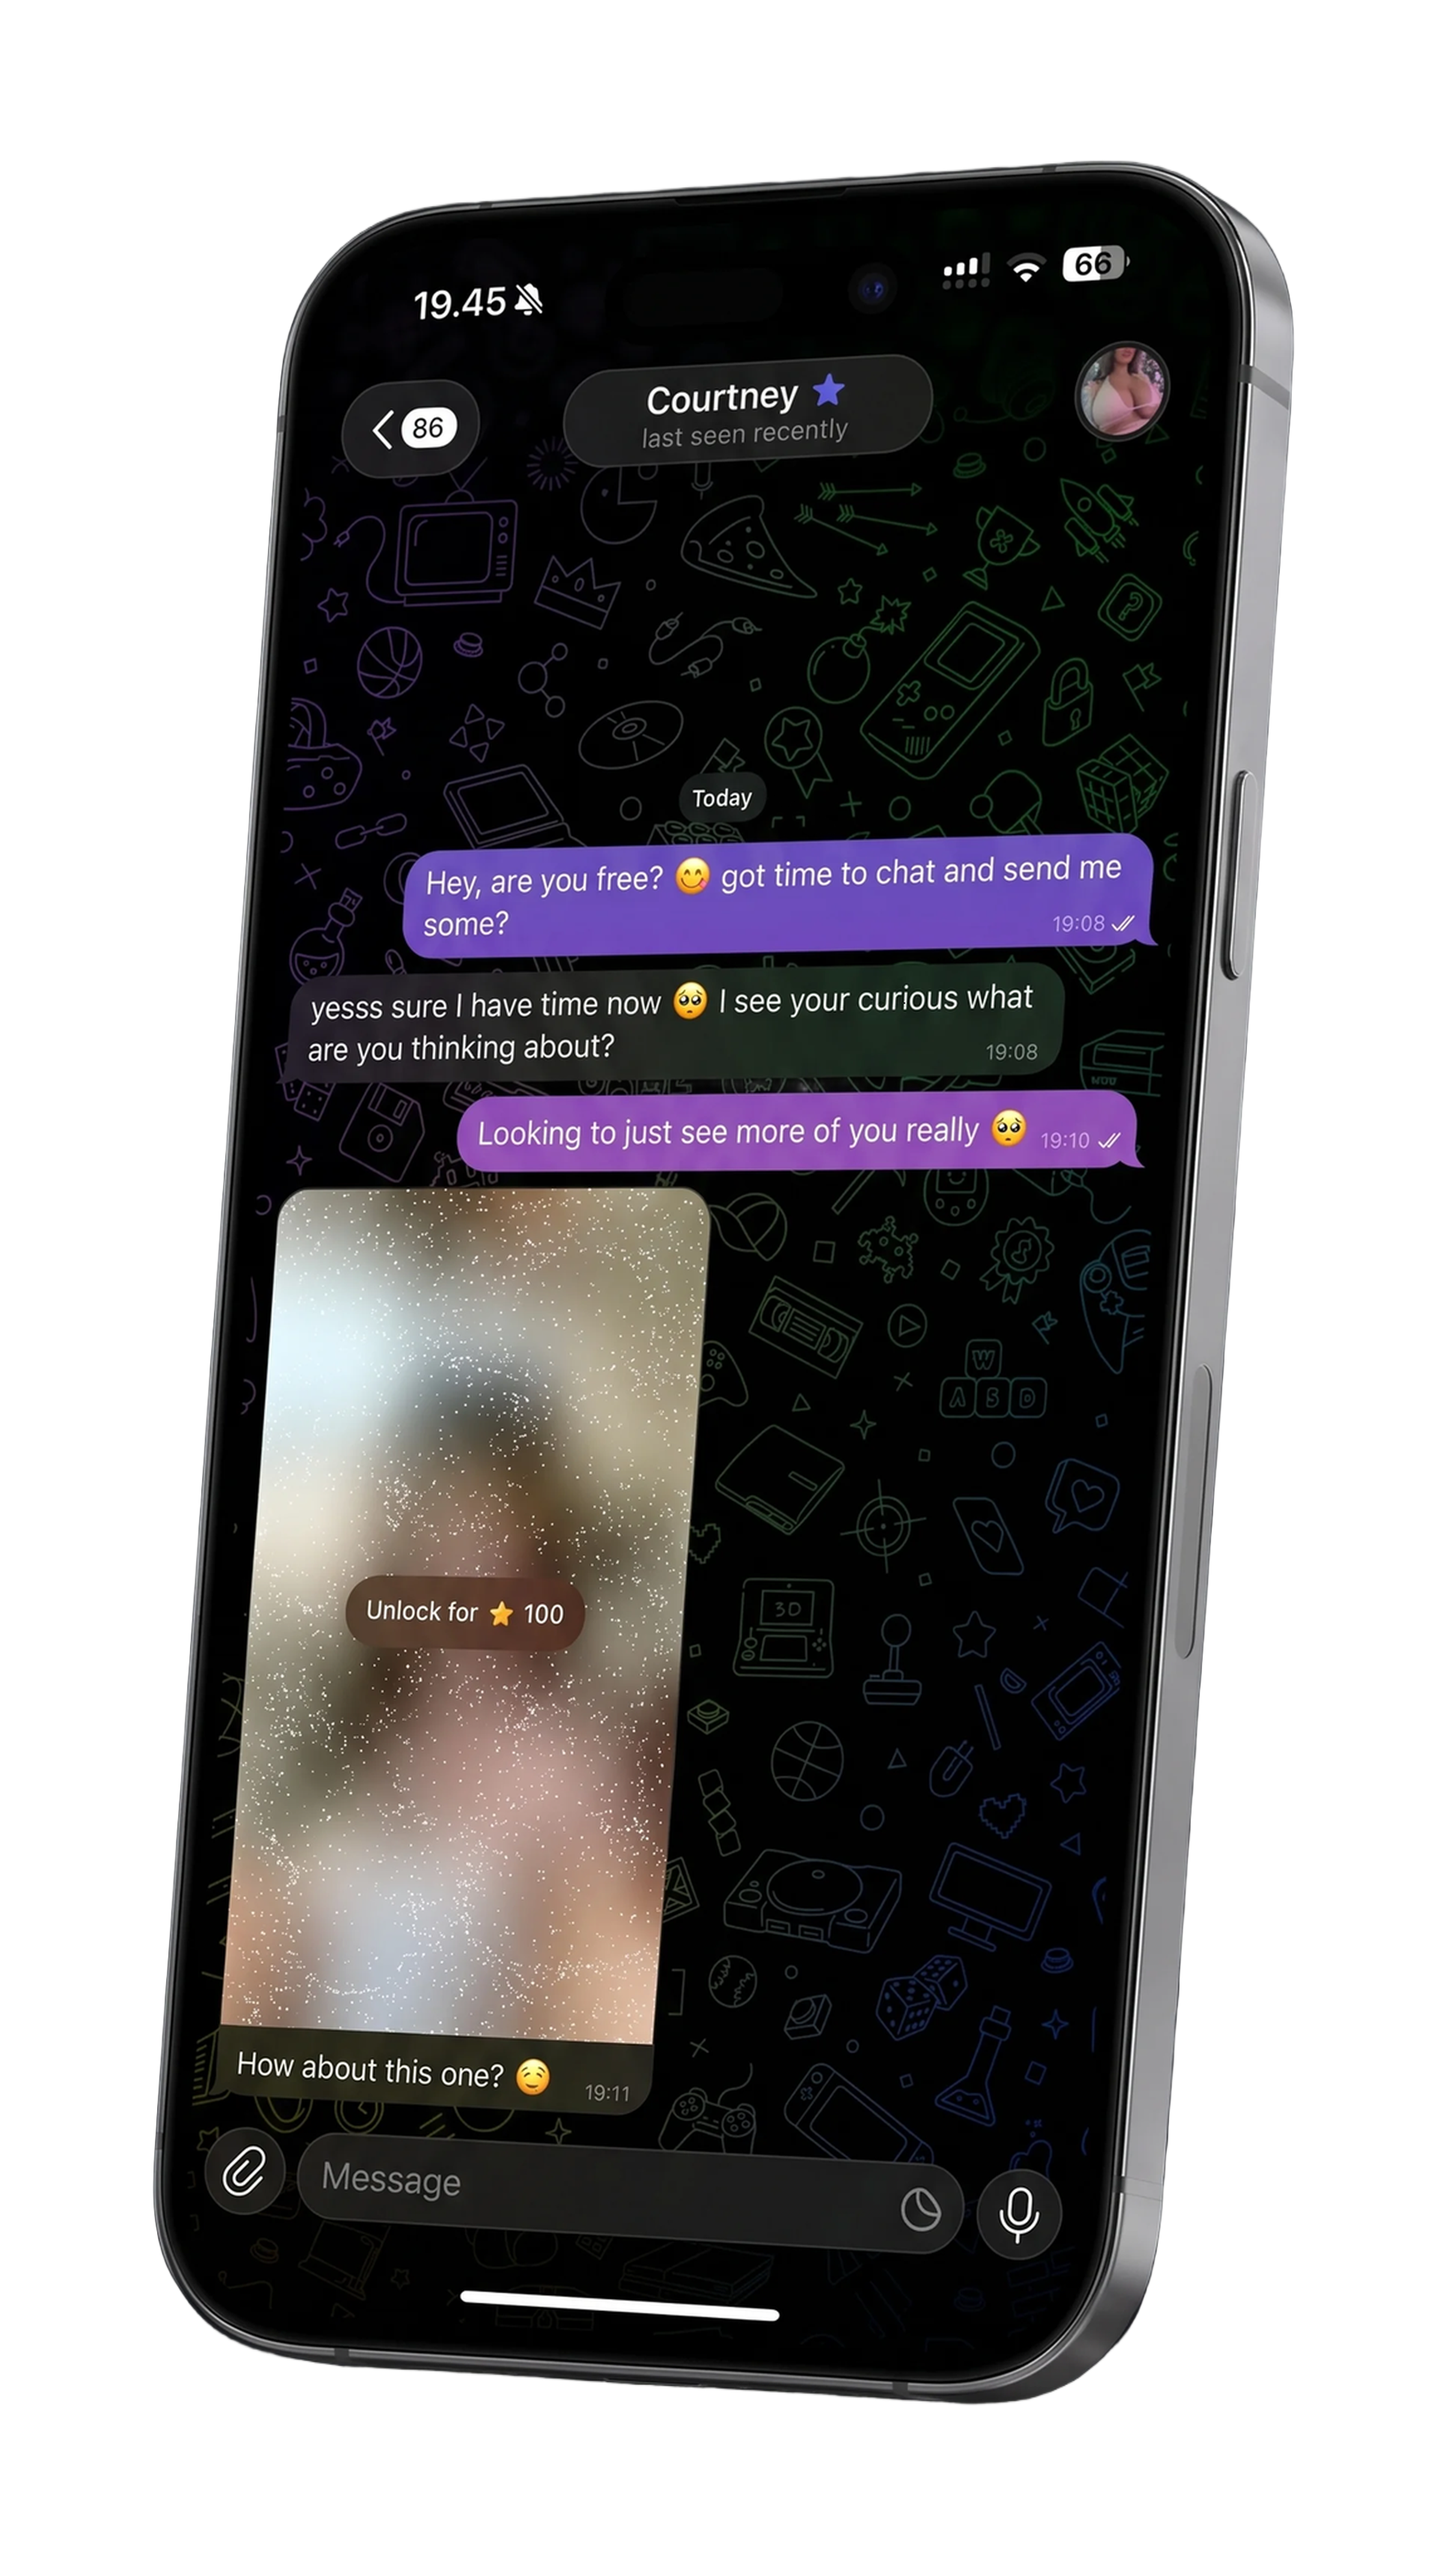
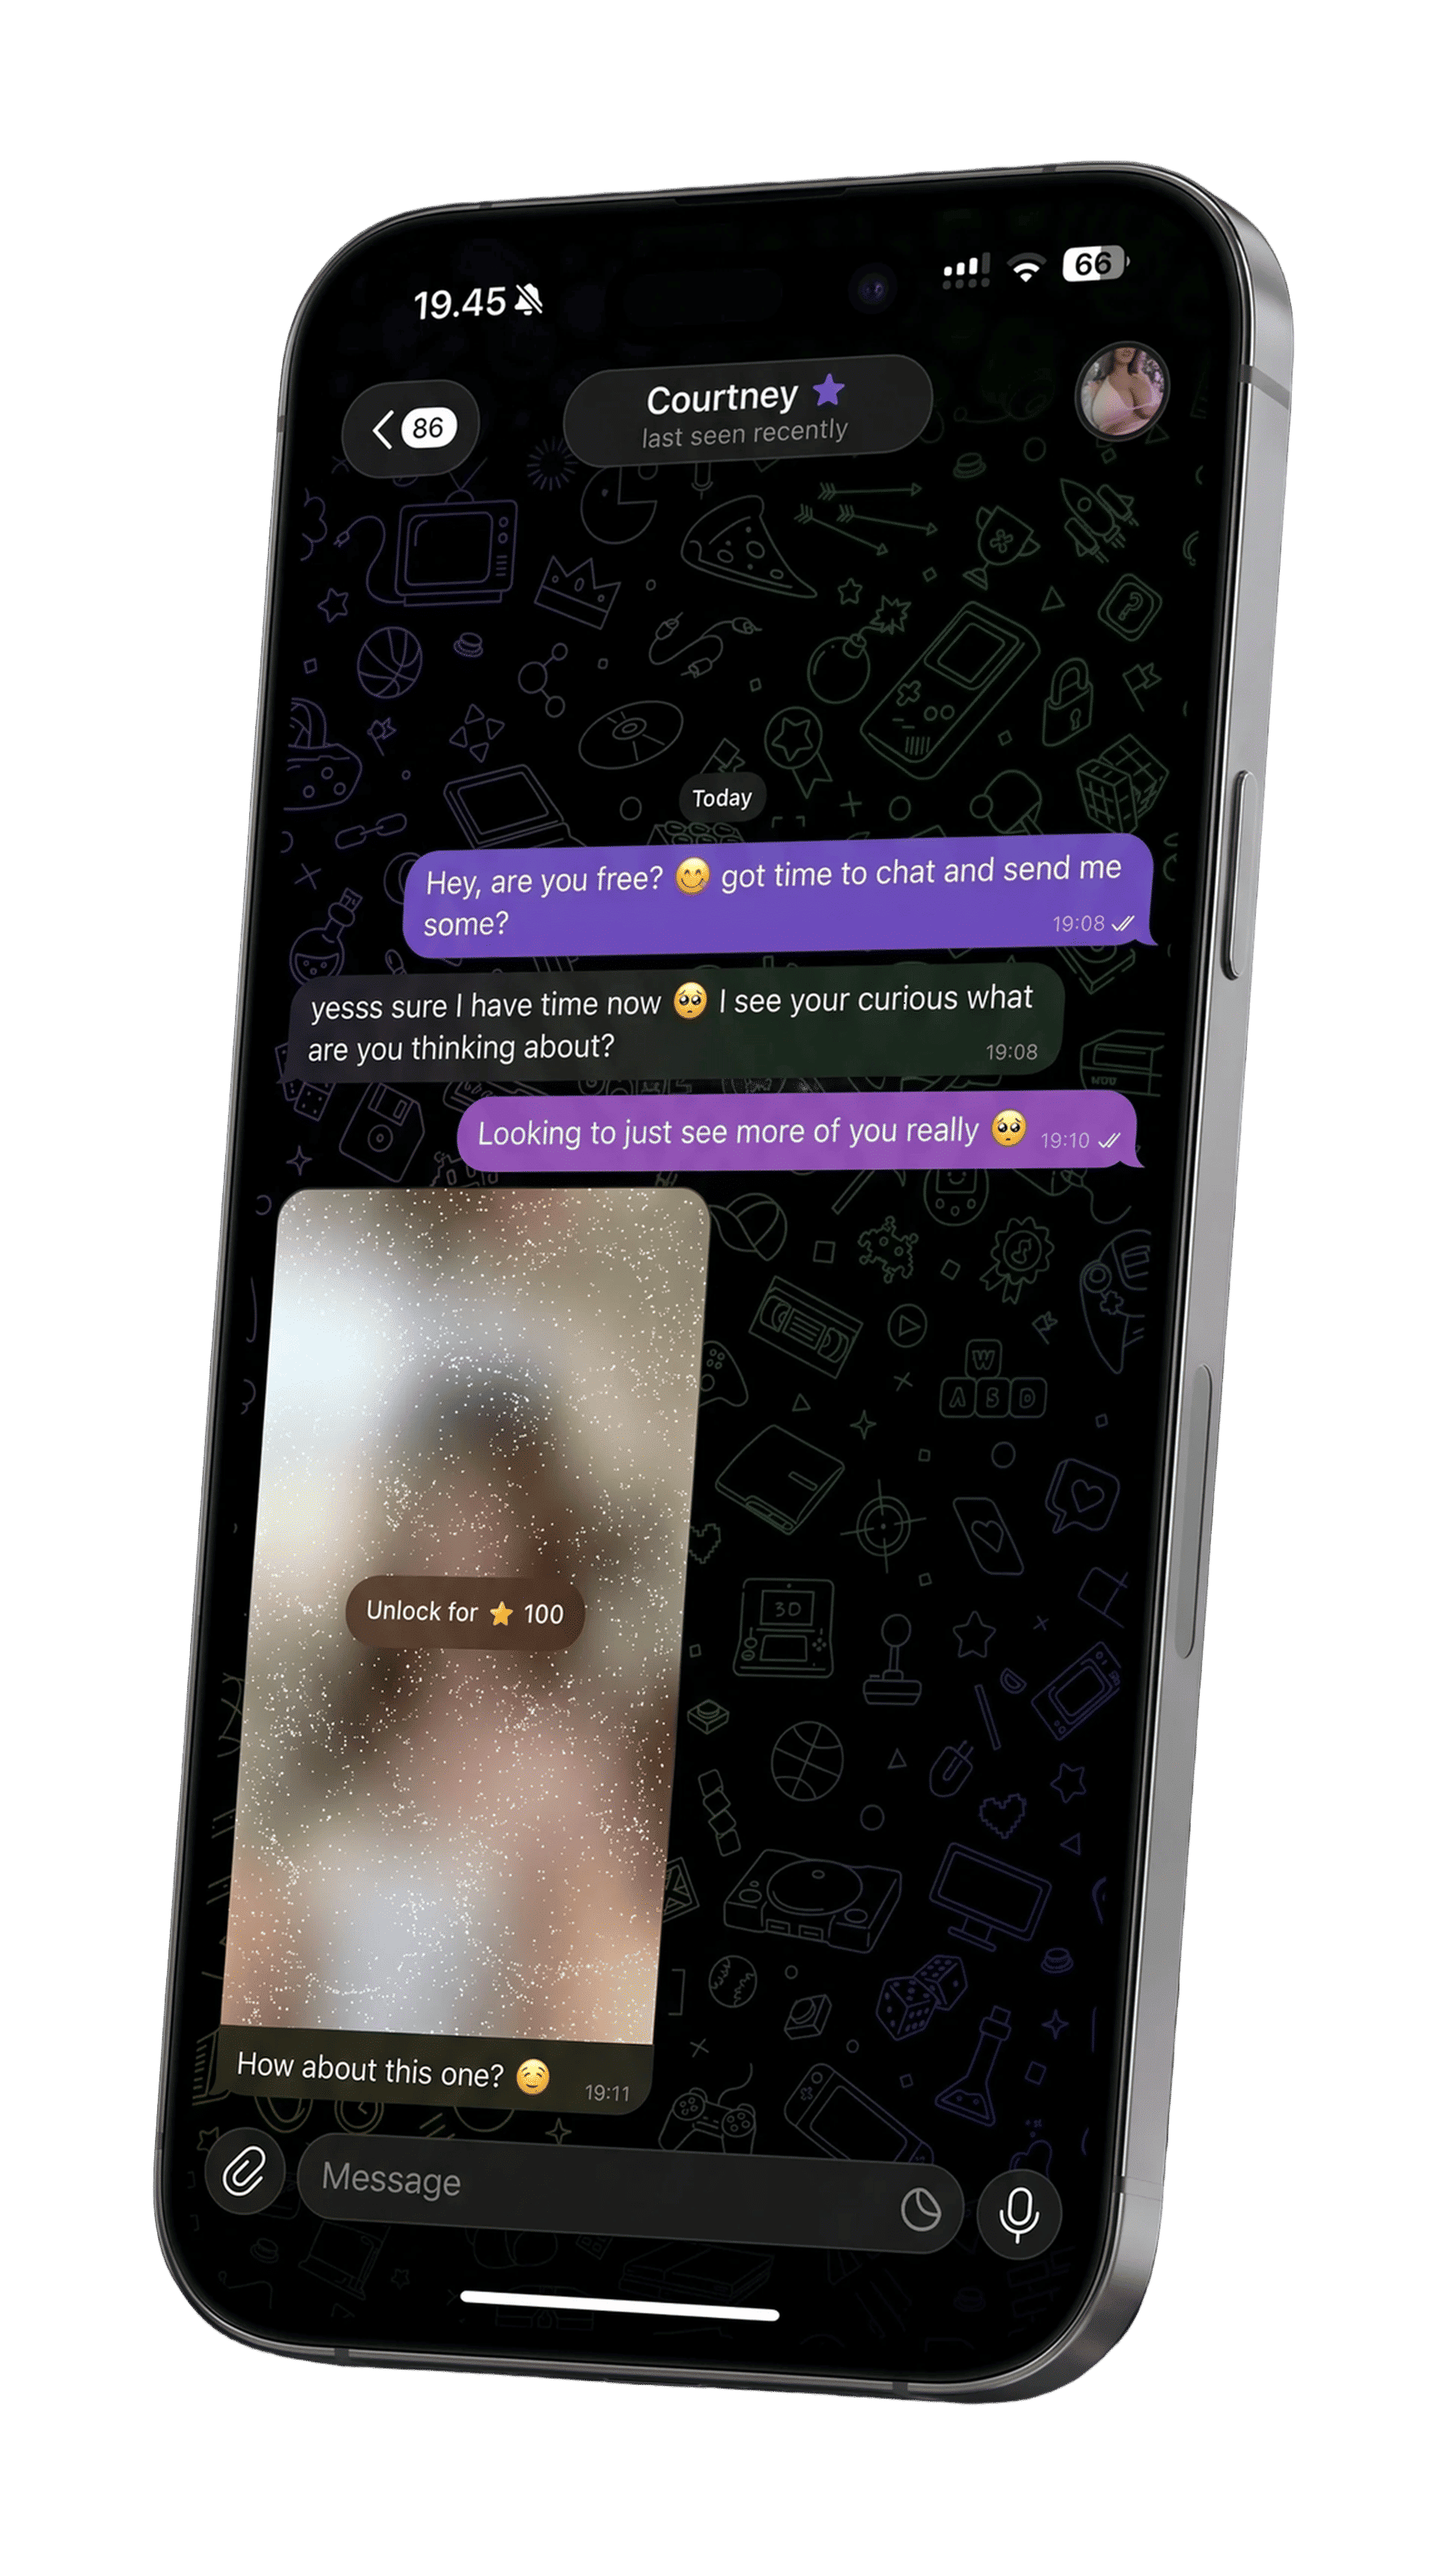
batch 94: new hero image + 30d cache on telegram-media thumbs + AR renders as virtual PPV bubble
- Landing hero: swap public/hero_ppvs.png with the new asset (hero_ppvs1.png
  from Telegram Downloads). Same filename so no template changes.

- /api/telegram/media/[modelId]: thumbs now ship "Cache-Control: private,
  max-age=2592000, immutable" (30 days). Telegram media is immutable per
  (peerId, messageId), so the browser can serve every re-render of the
  chat from disk without a network round-trip. Full-quality bytes keep
  the 5-minute TTL — those are the ones that occasionally re-transcode.

- auto-reply: every AR (free or Stars-priced) now inserts a ppv_sends row
  + ppv_send_items before firing, using generatePpvCode() as the invoice
  payload for native paid media. The chat-events stream picks up the row
  and the chatter workspace renders it as a virtual PPV bubble — matching
  the design ask that AR should look like a PPV in the chatter view even
  when it's free. Existing purchased_paid_media webhook fulfillment kicks
  in automatically for Stars-priced ARs (marks paid, bumps fan.total_spent).
  chatter_id=null so sales alerts and admin views correctly attribute the
  sale to the model rather than a nonexistent chatter.

diff --git a/src/lib/auto-reply.ts b/src/lib/auto-reply.ts
@@ -3,6 +3,8 @@ import { CustomFile } from "telegram/client/uploads";
 import type { TelegramClient } from "telegram";
 import { createAdminSupabaseClient } from "@/lib/supabase-server";
 import { ppvMediaPathFromUrl } from "@/lib/ppv-storage";
+import { generatePpvCode } from "@/lib/ppv-code";
+import { starsToUsd } from "@/lib/stars";
 
 /**
  * Auto-reply on first-fan-message.
@@ -136,6 +138,71 @@ async function loadPpvMedia(
     .filter((x) => !!x.mediaUrl);
 }
 
+/**
+ * Materialize a ppv_sends row + junction rows for an auto-reply so the
+ * chatter workspace picks it up as a virtual PPV bubble (same code path
+ * as chatter-composed sends). chatter_id is left null — the AR was fired
+ * by the model's session, not a human chatter. total_price is 0 for free
+ * ARs; for stars > 0 ARs it's the USD equivalent, so the purchased_paid_media
+ * webhook can fulfill it (mark paid, bump fan.total_spent) using our code
+ * as the payload.
+ */
+async function insertArPpvSend(
+  modelId: string,
+  peerId: string,
+  ppvIds: string[],
+  caption: string,
+  totalPriceUsd: number,
+  isPaidMedia: boolean,
+): Promise<{ code: string; sendId: string } | null> {
+  const admin = createAdminSupabaseClient();
+  let code = "";
+  let sendId = "";
+  for (let attempt = 0; attempt < 5; attempt++) {
+    code = generatePpvCode();
+    const nowIso = new Date().toISOString();
+    const { data, error } = await admin
+      .from("ppv_sends")
+      .insert({
+        code,
+        model_id: modelId,
+        chatter_id: null,
+        peer_id: peerId,
+        peer_access_hash: null,
+        peer_username: null,
+        caption: caption || null,
+        total_price: totalPriceUsd,
+        // Free AR is delivered on send; native paid-media AR flips to
+        // 'delivered' only when purchased_paid_media webhook lands.
+        status: isPaidMedia ? "sent" : "delivered",
+        delivered_at: isPaidMedia ? null : nowIso,
+      })
+      .select("id")
+      .single();
+    if (!error && data) {
+      sendId = (data as { id: string }).id;
+      break;
+    }
+    if (error && (error as { code?: string }).code !== "23505") {
+      console.error("[auto-reply] ppv_sends insert failed:", error.message);
+      return null;
+    }
+  }
+  if (!sendId) return null;
+  const itemRows = ppvIds.map((id, idx) => ({
+    send_id: sendId,
+    ppv_id: id,
+    ordinal: idx,
+  }));
+  const { error: linkErr } = await admin.from("ppv_send_items").insert(itemRows);
+  if (linkErr) {
+    console.error("[auto-reply] ppv_send_items insert failed:", linkErr.message);
+    await admin.from("ppv_sends").delete().eq("id", sendId);
+    return null;
+  }
+  return { code, sendId };
+}
+
 async function sendAutoReply(
   client: TelegramClient,
   modelId: string,
@@ -162,9 +229,25 @@ async function sendAutoReply(
     return;
   }
 
+  // Materialize a ppv_sends row (+ ppv_send_items) up-front so the chatter
+  // workspace renders this auto-reply as a virtual PPV bubble regardless of
+  // whether it's free or Stars-priced. Without this row, native paid-media
+  // messages are hidden by the chatter UI (see isPaidMedia in
+  // /api/telegram/messages), and free-album AR shows as a plain photo.
+  const totalPriceUsd = stars > 0 ? starsToUsd(stars) : 0;
+  const send = await insertArPpvSend(
+    modelId,
+    peerId,
+    media.map((m) => m.id),
+    text,
+    totalPriceUsd,
+    stars > 0,
+  );
+  const arCode = send?.code ?? null;
+
   // Stars > 0 → native Paid Media via @ppvstarbot (business connection).
-  // Same code path as /api/ppv/send paid — the fan sees the blur + "Unlock
-  // for ⭐ N" overlay and the chatter view renders it as a PPV bubble.
+  // The code doubles as the invoice payload so the purchased_paid_media
+  // webhook can find the row and fulfill it (mark paid, bump fan.total_spent).
   if (stars > 0) {
     const [{ findActiveBusinessConnection, sendPaidMediaAsBusiness }] = await Promise.all([
       import("@/lib/business-bot"),
@@ -197,11 +280,7 @@ async function sendAutoReply(
             connectionId: conn.connectionId,
             chatId: peerId,
             stars,
-            // Auto-replies have no ppv_sends row, so we don't have a code to
-            // pass back through the purchased_paid_media webhook. Use a
-            // stable synthetic payload so the webhook can tell "this was an
-            // auto-reply, no server-side fulfillment needed".
-            payload: `ar_${modelId.slice(0, 8)}_${Date.now().toString(36)}`,
+            payload: arCode ?? generatePpvCode(),
             caption: text,
             media: media.map((m) => ({
               kind: isVideo(m.mediaUrl) ? "video" : "photo",
@@ -215,6 +294,17 @@ async function sendAutoReply(
             e instanceof Error ? e.message : e,
           );
           // Fall through to free album so the fan at least gets something.
+          // The ppv_sends row already exists — flip it to 'failed' so the
+          // chatter view doesn't render a virtual PPV that never landed.
+          if (send) {
+            try {
+              const admin2 = createAdminSupabaseClient();
+              await admin2
+                .from("ppv_sends")
+                .update({ status: "failed", error: e instanceof Error ? e.message : "sendPaidMedia failed" })
+                .eq("id", send.sendId);
+            } catch { /* best-effort */ }
+          }
         }
       }
     }

diff --git a/src/app/api/telegram/media/[modelId]/route.ts b/src/app/api/telegram/media/[modelId]/route.ts
@@ -68,11 +68,12 @@ function respondWithMaybeRange(
   data: Buffer,
   mime: string,
   rangeHeader: string | null,
+  cacheSeconds: number,
 ): Response {
   const total = data.length;
   const baseHeaders: Record<string, string> = {
     "Content-Type": mime,
-    "Cache-Control": "private, max-age=300",
+    "Cache-Control": `private, max-age=${cacheSeconds}, immutable`,
     "Accept-Ranges": "bytes",
   };
 
@@ -171,10 +172,17 @@ export async function GET(
 
     const rangeHeader = req.headers.get("range");
 
+    // Telegram media is immutable per (peerId, messageId) — the same message
+    // never changes bytes — so thumbs are safe to cache aggressively in the
+    // browser (they're per-fan and per-message). Full-quality bytes cache
+    // shorter because users occasionally re-view large videos and we want
+    // any bucket policy tweaks to take effect on next open.
+    const cacheSeconds = quality === "thumb" ? 30 * 24 * 60 * 60 : 300;
+
     const k = cacheKey(modelId, peerId, messageId, quality);
     const hit = cache.get(k);
     if (hit && Date.now() - hit.ts < CACHE_TTL_MS) {
-      return respondWithMaybeRange(hit.data, hit.mime, rangeHeader);
+      return respondWithMaybeRange(hit.data, hit.mime, rangeHeader, cacheSeconds);
     }
 
     // Deferred Response: the streaming path resolves this as soon as the
@@ -235,7 +243,7 @@ export async function GET(
           }
           const mime = mimeFor(msg, true);
           cachePut(k, buf as Buffer, mime);
-          settle(respondWithMaybeRange(buf as Buffer, mime, rangeHeader));
+          settle(respondWithMaybeRange(buf as Buffer, mime, rangeHeader, cacheSeconds));
           return;
         }
 
@@ -302,7 +310,7 @@ export async function GET(
           const headers: Record<string, string> = {
             "Content-Type": mime,
             "Accept-Ranges": "bytes",
-            "Cache-Control": "private, max-age=300",
+            "Cache-Control": `private, max-age=${cacheSeconds}`,
             "Content-Length": String(total),
           };
           let status = 200;
@@ -325,7 +333,7 @@ export async function GET(
         }
         const mime = mimeFor(msg, false);
         cachePut(k, buf as Buffer, mime);
-        settle(respondWithMaybeRange(buf as Buffer, mime, rangeHeader));
+        settle(respondWithMaybeRange(buf as Buffer, mime, rangeHeader, cacheSeconds));
       },
       300_000,
     );
